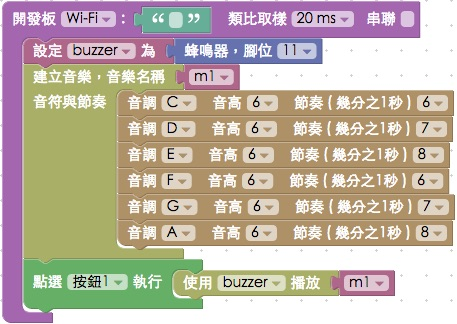
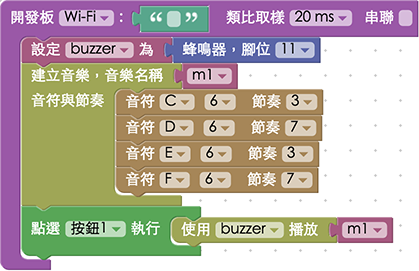
edit tutorials of buzzer

diff --git a/tutorials/tutorial-13-buzzer.html b/tutorials/tutorial-13-buzzer.html
@@ -1,60 +1,63 @@
-<!DOCTYPE html> <html lang="en"> <head> <meta charset="UTF-8"> <meta http-equiv="pragma" content="no-cache"> <meta name="viewport" content="width=device-width, initial-scale=1, maximum-scale=1, user-scalable=no"> <meta name="author" content="webduino.io"> <meta name="copyright" content="webduino.io"> <meta itemprop="name" content="webduino.io"> <link rel="icon" href="../img/layout/favicon.ico" type="image/x-icon"> <title>教學範例 13：蜂鳴器播放自製音樂 :::: Webduino = Web × Arduino</title> <meta name="description" content="蜂鳴器是一個可以產生聲音信號的裝置，使用直流電供電，接通訊號源之後，音訊信號電流通過電磁線圈，使電磁線圈產生磁場，造成 振動膜片週期性地振動發聲，而 Webduino 更可以藉由 HTML5 Attribute 來填入音符代碼，每個代碼都會對應到一個數值，這個數值相對應蜂鳴器聲音的頻率，因此藉由純粹的 HTML5 或 javascript 就可以編輯音樂，透過蜂鳴器發聲。"> <meta itemprop="description" content="蜂鳴器是一個可以產生聲音信號的裝置，使用直流電供電，接通訊號源之後，音訊信號電流通過電磁線圈，使電磁線圈產生磁場，造成 振動膜片週期性地振動發聲，而 Webduino 更可以藉由 HTML5 Attribute 來填入音符代碼，每個代碼都會對應到一個數值，這個數值相對應蜂鳴器聲音的頻率，因此藉由純粹的 HTML5 或 javascript 就可以編輯音樂，透過蜂鳴器發聲。"> <meta property="og:description" content="蜂鳴器是一個可以產生聲音信號的裝置，使用直流電供電，接通訊號源之後，音訊信號電流通過電磁線圈，使電磁線圈產生磁場，造成 振動膜片週期性地振動發聲，而 Webduino 更可以藉由 HTML5 Attribute 來填入音符代碼，每個代碼都會對應到一個數值，這個數值相對應蜂鳴器聲音的頻率，因此藉由純粹的 HTML5 或 javascript 就可以編輯音樂，透過蜂鳴器發聲。"> <meta property="og:title" content="教學範例 13：蜂鳴器播放自製音樂"> <meta property="og:url" content="https://webduino.io/tutorials/tutorial-13-buzzer.html"> <meta property="og:image" content="https://webduino.io/img/tutorials/tutorial-13-01s.jpg"> <meta itemprop="image" content="https://webduino.io/img/tutorials/tutorial-13-01s.jpg"> <script src="../js/lib/jquery.min.js"></script> <script src="../js/lib/jquery.lazyload.min.js"></script> <script src="../js/lib/run_prettify.js"></script> <script src="../js/layout.js"></script> <script src="../js/tutorials.js"></script> <script src="../js/lib/disqus.js"></script> <link rel="stylesheet" href="../style/css/lib/tomorrow.css"> <link rel="stylesheet" href="../style/css/layout.css"> <link rel="stylesheet" href="../style/css/sub-header.css"> <link rel="stylesheet" href="../style/css/tutorials-content.css"> <link rel="stylesheet" href="https://maxcdn.bootstrapcdn.com/font-awesome/4.5.0/css/font-awesome.min.css"> </head> <body> <header class="path-0"> <a class="logo" href="index.html" data-name="layout-header-logo"></a> <div class="mobile-menu"></div> <div class="menu"> <a href="index.html" class="index" data-name="layout-mobile-menu">首頁</a> <a href="tutorials.html" class="tutorials" data-name="layout-mobile-menu">教學範例</a> <a href="buy.html" class="buy" data-name="layout-mobile-menu">產品總覽</a> <a href="activity.html" class="activity" data-name="layout-mobile-menu">課程活動</a> <a data-name="layout-mobile-menu" href="https://www.facebook.com/webduino/info?tab=overview" target="_blank">連絡我們</a> </div> </header> <header class="path-1"> <a class="logo" href="../index.html"></a> <div class="mobile-menu"></div> <div class="menu"> <a href="../index.html" class="index" data-name="layout-menu">首頁</a> <a href="../tutorials.html" class="tutorials" data-name="layout-menu">教學範例</a> <a href="../buy.html" class="buy" data-name="layout-menu">產品總覽</a> <a href="../activity.html" class="activity" data-name="layout-menu">課程活動</a> <a data-name="layout-mobile-menu" href="https://www.facebook.com/webduino/info?tab=overview" target="_blank">連絡我們</a> </div> </header> <div class="tutorials-content"> <div class="banner"> </div> <h1>教學範例 13：蜂鳴器播放自製音樂</h1> <p>蜂鳴器是一個可以產生聲音信號的裝置，使用直流電供電，接通訊號源之後，音訊信號電流通過電磁線圈，使電磁線圈產生磁場，造成 振動膜片週期性地振動發聲，而 Webduino 更可以藉由 HTML5 Attribute 來填入音符代碼，每個代碼都會對應到一個數值，這個數值相對應蜂鳴器聲音的頻率，因此藉由純粹的 HTML5 或 javascript 就可以編輯音樂，透過蜂鳴器發聲。</p> <h2>範例影片展示</h2> <p>影片對應範例：<a href="https://blockly.webduino.io/?page=tutorials/buzzer-1">https://blockly.webduino.io/?page=tutorials/buzzer-1</a> </p> <p><iframe class="youtube" src="https://www.youtube.com/embed/StNG2NHS240" frameborder="0" allowfullscreen=""></iframe></p> <h2>接線與實作</h2> <p>蜂鳴器在電路板的附近，有標示「+」和「-」的符號，「-」接在開發板的 GND，「+」接在 11 的腳位 ( 其實接反也沒關係 )，可以用杜邦線接出來，如果是馬克 1 號，也可以直接安插在上面。</p> <p><img src="../img/tutorials/tutorial-13-02.jpg"></p> <p>實際接線照片：</p> <p><img src="../img/tutorials/tutorial-13-03.jpg"></p> <p><img src="../img/tutorials/tutorial-13-04.jpg"></p> <h2>Webduino Blockly 操作解析</h2> <p>打開 Webduino Blockly 編輯工具 ( <a href="https://blockly.webduino.io">https://blockly.webduino.io</a> )，因為這個範例會用網頁「網頁按鈕」來點選不同按鈕播放不同音樂，所以要先點選右上方「網頁互動測試」的按鈕，打開內嵌測試的網頁，用下拉選單選擇「按鈕行為」，這邊的按鈕跟實體的按鈕開關是不一樣的，這邊的按鈕指的是網頁上面的按鈕。</p> <p><img src="../img/tutorials/tutorial-13-05.jpg"></p> <p>把開發板放到編輯畫面裡，填入對應的 Webduino 開發板名稱，開發板內放入蜂鳴器積木，名稱設定為 buzzer，腳位設定為 11。</p> <p><img src="../img/tutorials/tutorial-13-06.jpg"></p> <p>再來建立我們的第一首音樂，放入「建立音樂」的積木，名稱命名為 m1，裏頭擺入音符與節奏，音符與節奏積木的「音調」有「無聲、C、CS、D、DS、E、F、FS、G、GS、A、AS、B」，可以想像成鋼琴的黑鍵與白鍵，有 S 的就是黑鍵，「音高」就是有幾個八度音，這裏可以設定七個八度音，數字越大聲越高，「節奏」就是幾分之一秒，最少可以到 1/10 秒。</p> <p><img src="../img/tutorials/tutorial-13-07.jpg"></p> <p>建立了音樂，接著就設定按下按鈕 1 的事件，當按下按鈕 1，就用 buzzer 播放 m1。</p> <p><img src="../img/tutorials/tutorial-13-08.jpg"></p> <p>如果要用另外一種製作音樂的方式，可以選擇「快速建立音樂」的積木，這裏就只是把剛剛的音符與節奏，合併成兩個欄位，如果節奏沒有按照音符數量填寫 ( 如果節奏比較少 )，則多出來的音符會預設用 1/8 秒的節奏播放，用這種方式做的第二首音樂 m2，點選按鈕 2 來播放。</p> <p><img src="../img/tutorials/tutorial-13-09.jpg"></p> <p>接著按下按鈕 3 的事件，就直接播放一首系統預設的超級馬力音樂即可。</p> <p><img src="../img/tutorials/tutorial-13-10.jpg"></p> <p>按鈕 4 綁定停止播放的行為。</p> <p><img src="../img/tutorials/tutorial-13-11.jpg"></p> <p>到這邊大致上已經完成了一個點選按鈕控制播放的蜂鳴器程式積木，但最後一步我們要在按鈕 1 到 3 多加一段停止播放的行為，避免按下按鈕的時候，如果前一首還沒播完，就會重疊在一起播放。</p> <p><img src="../img/tutorials/tutorial-13-12.jpg"></p> <p>完成後，確認開發板上線 ( 點選「<a href="https://webduino.io/device.html">檢查連線狀態</a>」查詢 )，點選紅色的執行按鈕，分別按下不同按鈕，就會聽到蜂鳴器播放出不同的音樂。( 解答：<a href="https://blockly.webduino.io/#-K7AbLdWpQrrSWJ8kIPs">https://blockly.webduino.io/#-K7AbLdWpQrrSWJ8kIPs</a> )</p> <h2>程式碼解析 ( <a href="http://bin.webduino.io/zolor/edit?html,css,js,output">完整程式碼</a>、<a href="https://webduino.io/device.html">檢查連線狀態</a> )</h2> <p>HTML 的 header 引入 <code>webduino-all.min.js</code>，目的在讓瀏覽器可以支援 WebComponents 以及 Webduino 所有的元件，如果是用 Blockly 編輯工具產生的程式碼，則要額外引入 <code>webduino-blockly.js</code>。</p> <pre><code>&lt;script src=&quot;https://webduino.io/components/webduino-js/dist/webduino-all.min.js&quot;&gt;&lt;/script&gt;
+<!DOCTYPE html> <html lang="en"> <head> <meta charset="UTF-8"> <meta http-equiv="pragma" content="no-cache"> <meta name="viewport" content="width=device-width, initial-scale=1, maximum-scale=1, user-scalable=no"> <meta name="author" content="webduino.io"> <meta name="copyright" content="webduino.io"> <meta itemprop="name" content="webduino.io"> <link rel="icon" href="../img/layout/favicon.ico" type="image/x-icon"> <title>教學範例 13：蜂鳴器播放自製音樂 :::: Webduino = Web × Arduino</title> <meta name="description" content="蜂鳴器是一個可以產生聲音信號的裝置，使用直流電供電，接通訊號源之後，音訊信號電流通過電磁線圈，使電磁線圈產生磁場，造成 振動膜片週期性地振動發聲，而 Webduino 更可以藉由 HTML5 Attribute 來填入音符代碼，每個代碼都會對應到一個數值，這個數值相對應蜂鳴器聲音的頻率，因此藉由純粹的 HTML5 或 javascript 就可以編輯音樂，透過蜂鳴器發聲。"> <meta itemprop="description" content="蜂鳴器是一個可以產生聲音信號的裝置，使用直流電供電，接通訊號源之後，音訊信號電流通過電磁線圈，使電磁線圈產生磁場，造成 振動膜片週期性地振動發聲，而 Webduino 更可以藉由 HTML5 Attribute 來填入音符代碼，每個代碼都會對應到一個數值，這個數值相對應蜂鳴器聲音的頻率，因此藉由純粹的 HTML5 或 javascript 就可以編輯音樂，透過蜂鳴器發聲。"> <meta property="og:description" content="蜂鳴器是一個可以產生聲音信號的裝置，使用直流電供電，接通訊號源之後，音訊信號電流通過電磁線圈，使電磁線圈產生磁場，造成 振動膜片週期性地振動發聲，而 Webduino 更可以藉由 HTML5 Attribute 來填入音符代碼，每個代碼都會對應到一個數值，這個數值相對應蜂鳴器聲音的頻率，因此藉由純粹的 HTML5 或 javascript 就可以編輯音樂，透過蜂鳴器發聲。"> <meta property="og:title" content="教學範例 13：蜂鳴器播放自製音樂"> <meta property="og:url" content="https://webduino.io/tutorials/tutorial-13-buzzer.html"> <meta property="og:image" content="https://webduino.io/img/tutorials/tutorial-13-01s.jpg"> <meta itemprop="image" content="https://webduino.io/img/tutorials/tutorial-13-01s.jpg"> <script src="../js/lib/jquery.min.js"></script> <script src="../js/lib/jquery.lazyload.min.js"></script> <script src="../js/lib/run_prettify.js"></script> <script src="../js/layout.js"></script> <script src="../js/tutorials.js"></script> <script src="../js/lib/disqus.js"></script> <link rel="stylesheet" href="../style/css/lib/tomorrow.css"> <link rel="stylesheet" href="../style/css/layout.css"> <link rel="stylesheet" href="../style/css/sub-header.css"> <link rel="stylesheet" href="../style/css/tutorials-content.css"> <link rel="stylesheet" href="https://maxcdn.bootstrapcdn.com/font-awesome/4.5.0/css/font-awesome.min.css"> </head> <body> <header class="path-0"> <a class="logo" href="index.html" data-name="layout-header-logo"></a> <div class="mobile-menu"></div> <div class="menu"> <a href="index.html" class="index" data-name="layout-mobile-menu">首頁</a> <a href="tutorials.html" class="tutorials" data-name="layout-mobile-menu">教學範例</a> <a href="buy.html" class="buy" data-name="layout-mobile-menu">產品總覽</a> <a href="activity.html" class="activity" data-name="layout-mobile-menu">課程活動</a> <a data-name="layout-mobile-menu" href="https://www.facebook.com/webduino/info?tab=overview" target="_blank">連絡我們</a> </div> </header> <header class="path-1"> <a class="logo" href="../index.html"></a> <div class="mobile-menu"></div> <div class="menu"> <a href="../index.html" class="index" data-name="layout-menu">首頁</a> <a href="../tutorials.html" class="tutorials" data-name="layout-menu">教學範例</a> <a href="../buy.html" class="buy" data-name="layout-menu">產品總覽</a> <a href="../activity.html" class="activity" data-name="layout-menu">課程活動</a> <a data-name="layout-mobile-menu" href="https://www.facebook.com/webduino/info?tab=overview" target="_blank">連絡我們</a> </div> </header> <div class="tutorials-content"> <div class="banner"> </div> <h1>教學範例 13：蜂鳴器播放自製音樂</h1> <p>蜂鳴器是一個可以產生聲音信號的裝置，使用直流電供電，接通訊號源之後，音訊信號電流通過電磁線圈，使電磁線圈產生磁場，造成 振動膜片週期性地振動發聲，而 Webduino 更可以藉由 HTML5 Attribute 來填入音符代碼，每個代碼都會對應到一個數值，這個數值相對應蜂鳴器聲音的頻率，因此藉由純粹的 HTML5 或 javascript 就可以編輯音樂，透過蜂鳴器發聲。</p> <h2>範例影片展示</h2> <p>影片對應範例：<a href="https://blockly.webduino.io/?page=tutorials/buzzer-1">https://blockly.webduino.io/?page=tutorials/buzzer-1</a> </p> <p><iframe class="youtube" src="https://www.youtube.com/embed/StNG2NHS240" frameborder="0" allowfullscreen=""></iframe></p> <h2>接線與實作</h2> <p>蜂鳴器在電路板的附近，有標示「+」和「-」的符號，「-」接在開發板的 GND，「+」接在 11 的腳位 ( 其實接反也沒關係 )，可以用杜邦線接出來，如果是馬克 1 號，也可以直接安插在上面。</p> <p><img src="../img/tutorials/tutorial-13-02.jpg"></p> <p>實際接線照片：</p> <p><img src="../img/tutorials/tutorial-13-03.jpg"></p> <p><img src="../img/tutorials/tutorial-13-04.jpg"></p> <h2>Webduino Blockly 操作解析</h2> <p>打開 Webduino Blockly 編輯工具 ( <a href="https://blockly.webduino.io">https://blockly.webduino.io</a> )，因為這個範例會用網頁「網頁按鈕」來點選不同按鈕播放不同音樂，所以要先點選右上方「網頁互動測試」的按鈕，打開內嵌測試的網頁，用下拉選單選擇「按鈕行為」，這邊的按鈕跟實體的按鈕開關是不一樣的，這邊的按鈕指的是網頁上面的按鈕。</p> <p><img src="../img/tutorials/tutorial-13-05.jpg"></p> <p>把開發板放到編輯畫面裡，填入對應的 Webduino 開發板名稱，開發板內放入蜂鳴器積木，名稱設定為 buzzer，腳位設定為 11。</p> <p><img src="../img/tutorials/tutorial-13-06.jpg"></p> <p>再來建立我們的第一首音樂，放入「建立音樂」的積木，名稱命名為 m1，裏頭擺入音符與節奏，「音符」第一個下拉選單有「無聲、C、CS、D、DS、E、F、FS、G、GS、A、AS、B」，可以想像成鋼琴的黑鍵與白鍵，有 S 的就是黑鍵，第二個下拉選單就是有幾個八度音，這裏可以設定七個八度音，數字越大聲越高，「節奏」就是幾分之一秒，最少可以到 1/10 秒。</p> <p><img src="../img/tutorials/tutorial-13-07.jpg"></p> <p>建立了音樂，接著就設定按下按鈕 1 的事件，當按下按鈕 1，就用 buzzer 播放 m1。</p> <p><img src="../img/tutorials/tutorial-13-08.jpg"></p> <p>除了一個個放入音符和節奏外，也可以直接用輸入的方式，這裏就只是把剛剛的音符與節奏，合併成兩個欄位，如果節奏沒有按照音符數量填寫 ( 如果節奏比較少 )，則多出來的音符就會用最後一個節奏的時間去播放，用這種方式做的第二首音樂 m2，點選按鈕 2 來播放。</p> <p><img src="../img/tutorials/tutorial-13-09.jpg"></p> <p>接著按下按鈕 3 的事件，這裏就用同樣做音樂的方法作首 m3 的音樂，內容就直接選一首資料庫的音樂放入。</p> <p><img src="../img/tutorials/tutorial-13-10.jpg"></p> <p>按鈕 4 綁定停止播放的行為。</p> <p><img src="../img/tutorials/tutorial-13-11.jpg"></p> <p>到這邊大致上已經完成了一個點選按鈕控制播放的蜂鳴器程式積木，但最後一步我們要在按鈕 1 到 3 多加一段停止播放的行為，避免按下按鈕的時候，如果前一首還沒播完，就會重疊在一起播放。</p> <p><img src="../img/tutorials/tutorial-13-12.jpg"></p> <p>完成後，確認開發板上線 ( 點選「<a href="https://webduino.io/device.html">檢查連線狀態</a>」查詢 )，點選紅色的執行按鈕，分別按下不同按鈕，就會聽到蜂鳴器播放出不同的音樂。( 解答：<a href="https://blockly.webduino.io/#-KDEaW-S-kRRaEkkyRGH">https://blockly.webduino.io/#-KDEaW-S-kRRaEkkyRGH</a> )</p> <h2>程式碼解析 ( <a href="https://bin.webduino.io/lihov/edit?html,css,js,output">完整程式碼</a>、<a href="https://webduino.io/device.html">檢查連線狀態</a> )</h2> <p>HTML 的 header 引入 <code>webduino-all.min.js</code>，目的在讓瀏覽器可以支援 WebComponents 以及 Webduino 所有的元件，如果是用 Blockly 編輯工具產生的程式碼，則要額外引入 <code>webduino-blockly.js</code>。</p> <pre><code>&lt;script src=&quot;https://webduino.io/components/webduino-js/dist/webduino-all.min.js&quot;&gt;&lt;/script&gt;
 &lt;script src=&quot;https://webduinoio.github.io/webduino-blockly/webduino-blockly.js&quot;&gt;&lt;/script&gt;
 </code></pre><p>HTML 裡有五個按鈕，分別有各自的 id，屆時就可以由 id 來判斷按下哪顆按鈕。</p> <pre><code>&lt;button id=&quot;demo-area-05-btn1&quot; class=&quot;db5&quot;&gt;按鈕 1&lt;/button&gt;
 &lt;button id=&quot;demo-area-05-btn2&quot; class=&quot;db5&quot;&gt;按鈕 2&lt;/button&gt;
 &lt;button id=&quot;demo-area-05-btn3&quot; class=&quot;db5&quot;&gt;按鈕 3&lt;/button&gt;
 &lt;button id=&quot;demo-area-05-btn4&quot; class=&quot;db5&quot;&gt;按鈕 4&lt;/button&gt;
 &lt;button id=&quot;demo-area-05-btn5&quot; class=&quot;db5&quot;&gt;按鈕 5&lt;/button&gt;
-</code></pre><p>JavaScript 看起來很多，但實際上很單純，先看到 m1 這首歌，其實就是建立兩個陣列 ( notes 和 tempos )，然後把音符和節奏分別拋到這兩個陣列裡，如果是 m2 的話就更單純，直接就可以看到兩個陣列的長相，至於直接播放系統預設的超級馬力，就可以看到一大串的超級馬力音樂數值在陣列裡，然後只要設定按鈕的 click 事件來播放就可以了。</p> <pre><code>var buzzer;
+</code></pre><p>JavaScript 看起來很多，但實際上很單純，先看到 m1 這首歌，其實就是建立兩個陣列 ( notes 和 tempos )，然後把音符和節奏分別拋到這兩個陣列裡，一開始的程式就是音樂播放的主程式，可以清楚地看到裡面放入了兩個物件，分別是 notes 和 tempos，而這兩個物件內容都是陣列。</p> <pre><code>var buzzer;
 var m1;
 var m2;
+var m3;
 
-boardReady(&#39;&#39;, function (board) {
+function buzzer_music(m) {
+  var musicNotes = {};
+  musicNotes.notes = [];
+  musicNotes.tempos = [];
+  if(m.length&gt;1){
+    for(var i=0; i&lt;m.length; i++){
+      if(Array.isArray(m[i].notes)){
+        var cn = musicNotes.notes.concat(m[i].notes);
+        musicNotes.notes = cn;
+      }else{
+        musicNotes.notes.push(m[i].notes);
+      }
+      if(Array.isArray(m[i].tempos)){
+        var ct = musicNotes.tempos.concat(m[i].tempos);
+        musicNotes.tempos = ct;
+      }else{
+        musicNotes.tempos.push(m[i].tempos);
+      }
+    }
+  }else{
+    musicNotes.notes = [m[0].notes];
+    musicNotes.tempos = [m[0].tempos];
+  }
+  return musicNotes;
+}
+</code></pre><p>接著看到開發板的程式，可以看到我們建立的音樂，就是把一串陣列丟給這首音樂的 notes 和 tempos 物件，如此一來蜂鳴器就會按照這些音符節奏播放。</p> <pre><code>boardReady(&#39;&#39;, function (board) {
   board.samplingInterval = 20;
   buzzer = getBuzzer(board, 11);
-  var m1={};
-  (function(){
-    var musicNotes = {};
-    musicNotes.notes = [];
-    musicNotes.tempos = [];
-    musicNotes.notes.push(&quot;C6&quot;);
-    musicNotes.tempos.push(&quot;6&quot;);
-    musicNotes.notes.push(&quot;D6&quot;);
-    musicNotes.tempos.push(&quot;7&quot;);
-    musicNotes.notes.push(&quot;E6&quot;);
-    musicNotes.tempos.push(&quot;8&quot;);
-    musicNotes.notes.push(&quot;F6&quot;);
-    musicNotes.tempos.push(&quot;6&quot;);
-    musicNotes.notes.push(&quot;G6&quot;);
-    musicNotes.tempos.push(&quot;7&quot;);
-    musicNotes.notes.push(&quot;A6&quot;);
-    musicNotes.tempos.push(&quot;8&quot;);
-
-    m1.notes = musicNotes.notes;
-    m1.tempos = musicNotes.tempos;
-  })();
+  m1 = buzzer_music([  {notes:&quot;C6&quot;,tempos:&quot;3&quot;},{notes:&quot;D6&quot;,tempos:&quot;7&quot;},{notes:&quot;E6&quot;,tempos:&quot;3&quot;},{notes:&quot;F6&quot;,tempos:&quot;7&quot;}]);
   document.getElementById(&quot;demo-area-05-btn1&quot;).addEventListener(&quot;click&quot;,function(){
     buzzer.stop();
     buzzer.play(m1.notes, m1.tempos);
   });
-  var m2={};
-  (function(){
-    m2.notes = [&#39;C6&#39;,&#39;D6&#39;,&#39;E6&#39;,&#39;F6&#39;,&#39;G6&#39;,&#39;A6&#39;,&#39;B6&#39;];
-    m2.tempos = [&#39;8&#39;];
-  })();
+  m2 = buzzer_music([  {notes : [&quot;C6&quot;,&quot;D6&quot;,&quot;E6&quot;,&quot;F6&quot;,&quot;G6&quot;,&quot;A6&quot;,&quot;B6&quot;] , tempos : [&quot;8&quot;,&quot;8&quot;,&quot;8&quot;,&quot;8&quot;,&quot;8&quot;,&quot;8&quot;,&quot;8&quot;] }]);
   document.getElementById(&quot;demo-area-05-btn2&quot;).addEventListener(&quot;click&quot;,function(){
     buzzer.stop();
     buzzer.play(m2.notes, m2.tempos);
   });
+  m3 = buzzer_music([  {notes:[&quot;E7&quot;,&quot;E7&quot;,&quot;0&quot;,&quot;E7&quot;,&quot;0&quot;,&quot;C7&quot;,&quot;E7&quot;,&quot;0&quot;,&quot;G7&quot;,&quot;0&quot;,&quot;0&quot;,&quot;0&quot;,&quot;G6&quot;,&quot;0&quot;,&quot;0&quot;,&quot;0&quot;,&quot;C7&quot;,&quot;0&quot;,&quot;0&quot;,&quot;G6&quot;,&quot;0&quot;,&quot;0&quot;,&quot;E6&quot;,&quot;0&quot;,&quot;0&quot;,&quot;A6&quot;,&quot;0&quot;,&quot;B6&quot;,&quot;0&quot;,&quot;AS6&quot;,&quot;A6&quot;,&quot;0&quot;,&quot;G6&quot;,&quot;E7&quot;,&quot;0&quot;,&quot;G7&quot;,&quot;A7&quot;,&quot;0&quot;,&quot;F7&quot;,&quot;G7&quot;,&quot;0&quot;,&quot;E7&quot;,&quot;0&quot;,&quot;C7&quot;,&quot;D7&quot;,&quot;B6&quot;,&quot;0&quot;,&quot;0&quot;,&quot;C7&quot;,&quot;0&quot;,&quot;0&quot;,&quot;G6&quot;,&quot;0&quot;,&quot;0&quot;,&quot;E6&quot;,&quot;0&quot;,&quot;0&quot;,&quot;A6&quot;,&quot;0&quot;,&quot;B6&quot;,&quot;0&quot;,&quot;AS6&quot;,&quot;A6&quot;,&quot;0&quot;,&quot;G6&quot;,&quot;E7&quot;,&quot;0&quot;,&quot;G7&quot;,&quot;A7&quot;,&quot;0&quot;,&quot;F7&quot;,&quot;G7&quot;,&quot;0&quot;,&quot;E7&quot;,&quot;0&quot;,&quot;C7&quot;,&quot;D7&quot;,&quot;B6&quot;,&quot;0&quot;,&quot;0&quot;] , tempos:[&quot;8&quot;, &quot;8&quot;, &quot;8&quot;, &quot;8&quot;, &quot;8&quot;, &quot;8&quot;, &quot;8&quot;, &quot;8&quot;, &quot;8&quot;, &quot;8&quot;, &quot;8&quot;, &quot;8&quot;, &quot;8&quot;, &quot;8&quot;, &quot;8&quot;, &quot;8&quot;, &quot;8&quot;, &quot;8&quot;, &quot;8&quot;, &quot;8&quot;, &quot;8&quot;, &quot;8&quot;, &quot;8&quot;, &quot;8&quot;, &quot;8&quot;, &quot;8&quot;, &quot;8&quot;, &quot;8&quot;, &quot;8&quot;, &quot;8&quot;, &quot;8&quot;, &quot;8&quot;, &quot;8&quot;, &quot;8&quot;, &quot;8&quot;, &quot;8&quot;, &quot;8&quot;, &quot;8&quot;, &quot;8&quot;, &quot;8&quot;, &quot;8&quot;, &quot;8&quot;, &quot;8&quot;, &quot;8&quot;, &quot;8&quot;, &quot;8&quot;, &quot;8&quot;, &quot;8&quot;, &quot;8&quot;, &quot;8&quot;, &quot;8&quot;, &quot;8&quot;, &quot;8&quot;, &quot;8&quot;, &quot;8&quot;, &quot;8&quot;, &quot;8&quot;, &quot;8&quot;, &quot;8&quot;, &quot;8&quot;, &quot;8&quot;, &quot;8&quot;, &quot;8&quot;, &quot;8&quot;, &quot;8&quot;, &quot;8&quot;, &quot;8&quot;, &quot;8&quot;, &quot;8&quot;, &quot;8&quot;, &quot;8&quot;, &quot;8&quot;, &quot;8&quot;, &quot;8&quot;, &quot;8&quot;, &quot;8&quot;, &quot;8&quot;, &quot;8&quot;, &quot;8&quot;, &quot;8&quot;]}]);
   document.getElementById(&quot;demo-area-05-btn3&quot;).addEventListener(&quot;click&quot;,function(){
     buzzer.stop();
-    buzzer.play([&quot;E7&quot;,&quot;E7&quot;,&quot;0&quot;,&quot;E7&quot;,&quot;0&quot;,&quot;C7&quot;,&quot;E7&quot;,&quot;0&quot;,&quot;G7&quot;,&quot;0&quot;,&quot;0&quot;,&quot;0&quot;,&quot;G6&quot;,&quot;0&quot;,&quot;0&quot;,&quot;0&quot;,&quot;C7&quot;,&quot;0&quot;,&quot;0&quot;,&quot;G6&quot;,&quot;0&quot;,&quot;0&quot;,&quot;E6&quot;,&quot;0&quot;,&quot;0&quot;,&quot;A6&quot;,&quot;0&quot;,&quot;B6&quot;,&quot;0&quot;,&quot;AS6&quot;,&quot;A6&quot;,&quot;0&quot;,&quot;G6&quot;,&quot;E7&quot;,&quot;0&quot;,&quot;G7&quot;,&quot;A7&quot;,&quot;0&quot;,&quot;F7&quot;,&quot;G7&quot;,&quot;0&quot;,&quot;E7&quot;,&quot;0&quot;,&quot;C7&quot;,&quot;D7&quot;,&quot;B6&quot;,&quot;0&quot;,&quot;0&quot;,&quot;C7&quot;,&quot;0&quot;,&quot;0&quot;,&quot;G6&quot;,&quot;0&quot;,&quot;0&quot;,&quot;E6&quot;,&quot;0&quot;,&quot;0&quot;,&quot;A6&quot;,&quot;0&quot;,&quot;B6&quot;,&quot;0&quot;,&quot;AS6&quot;,&quot;A6&quot;,&quot;0&quot;,&quot;G6&quot;,&quot;E7&quot;,&quot;0&quot;,&quot;G7&quot;,&quot;A7&quot;,&quot;0&quot;,&quot;F7&quot;,&quot;G7&quot;,&quot;0&quot;,&quot;E7&quot;,&quot;0&quot;,&quot;C7&quot;,&quot;D7&quot;,&quot;B6&quot;,&quot;0&quot;,&quot;0&quot;],[&quot;8&quot;].notes, [&quot;E7&quot;,&quot;E7&quot;,&quot;0&quot;,&quot;E7&quot;,&quot;0&quot;,&quot;C7&quot;,&quot;E7&quot;,&quot;0&quot;,&quot;G7&quot;,&quot;0&quot;,&quot;0&quot;,&quot;0&quot;,&quot;G6&quot;,&quot;0&quot;,&quot;0&quot;,&quot;0&quot;,&quot;C7&quot;,&quot;0&quot;,&quot;0&quot;,&quot;G6&quot;,&quot;0&quot;,&quot;0&quot;,&quot;E6&quot;,&quot;0&quot;,&quot;0&quot;,&quot;A6&quot;,&quot;0&quot;,&quot;B6&quot;,&quot;0&quot;,&quot;AS6&quot;,&quot;A6&quot;,&quot;0&quot;,&quot;G6&quot;,&quot;E7&quot;,&quot;0&quot;,&quot;G7&quot;,&quot;A7&quot;,&quot;0&quot;,&quot;F7&quot;,&quot;G7&quot;,&quot;0&quot;,&quot;E7&quot;,&quot;0&quot;,&quot;C7&quot;,&quot;D7&quot;,&quot;B6&quot;,&quot;0&quot;,&quot;0&quot;,&quot;C7&quot;,&quot;0&quot;,&quot;0&quot;,&quot;G6&quot;,&quot;0&quot;,&quot;0&quot;,&quot;E6&quot;,&quot;0&quot;,&quot;0&quot;,&quot;A6&quot;,&quot;0&quot;,&quot;B6&quot;,&quot;0&quot;,&quot;AS6&quot;,&quot;A6&quot;,&quot;0&quot;,&quot;G6&quot;,&quot;E7&quot;,&quot;0&quot;,&quot;G7&quot;,&quot;A7&quot;,&quot;0&quot;,&quot;F7&quot;,&quot;G7&quot;,&quot;0&quot;,&quot;E7&quot;,&quot;0&quot;,&quot;C7&quot;,&quot;D7&quot;,&quot;B6&quot;,&quot;0&quot;,&quot;0&quot;],[&quot;8&quot;].tempos);
+    buzzer.play(m3.notes, m3.tempos);
   });
   document.getElementById(&quot;demo-area-05-btn4&quot;).addEventListener(&quot;click&quot;,function(){
     buzzer.stop();
   });
 });
-</code></pre><p>以上就是利用蜂鳴器和網頁的按鈕，來製作與播放音樂。<br>完整程式碼：<a href="http://bin.webduino.io/zolor/edit?html,css,js,output">http://bin.webduino.io/zolor/edit?html,css,js,output</a><br>解答：<a href="https://blockly.webduino.io/#-K7AbLdWpQrrSWJ8kIPs">https://blockly.webduino.io/#-K7AbLdWpQrrSWJ8kIPs</a></p> <h2>蜂鳴器的延伸教學：</h2> <p><a href="https://blockly.webduino.io/?lang=zh-hant&amp;page=tutorials/buzzer-2#-Jw0aEoyT2sxCaftUdTD">Webduino Blockly 課程 9-2：蜂鳴器播放音樂</a><br><a href="https://blockly.webduino.io/?lang=zh-hant&amp;page=tutorials/buzzer-3#-Jw13yiSFLrZJEVyJ2Ej">Webduino Blockly 課程 9-3：切換音樂，用蜂鳴器播放</a><br><a href="https://blockly.webduino.io/?lang=zh-hant&amp;page=tutorials/buzzer-4#-Jw17HU-K0zaz6OVpCd2">Webduino Blockly 課程 9-4：蜂鳴器的播放、暫停、停止 ( 按鈕開關控制 ) </a></p> <a class="arrow arrow-r pre-next-button" data-name="pre-next-arrow"></a> <a class="arrow arrow-l pre-next-button" data-name="pre-next-arrow"></a> <div class="pre-next"> <div> <div class="pre"></div> <div class="next"></div> </div> </div> <div class="note-chicken"></div> <div class="others"> <i class="fa fa-times note-close-btn"></i> <h5>如果您還想了解更多，可以參考：</h5> <div class="others-link otehrs-read"> 1. 完整教學範例：<a href="https://webduino.io/tutorials.html" data-name="noteLink">https://webduino.io/tutorials.html</a> <br> 2. Blockly 教學：<a href="https://goo.gl/Y8sRkl" data-name="noteLink">https://goo.gl/Y8sRkl</a> <br> 3. 產品總覽：<a href="https://webduino.io/buy.html" target="_blank" data-name="noteLink">https://webduino.io/buy.html <i class="fa fa-share-square-o"></i></a> <br> 4. 露天賣場：<a href="http://goo.gl/0Dj9ip" target="_blank" data-name="noteLink">http://goo.gl/0Dj9ip <i class="fa fa-share-square-o"></i></a> </div> </div> </div> <div class="disqus"> <div id="disqus_thread"></div> </div> <footer> <div class="logo"> <a href="index.html" data-name="layout-footer-logo"><i></i></a> <a href="../index.html" data-name="layout-footer-logo"><i></i></a> </div> <h4>Copyright 2015 | All Rights Reserved. Power by Webduino.io</h4> <h4>80661 高雄市前鎮區復興四路 20 號 1 樓 / 886-7-3388511</h4> </footer> <script>
+</code></pre><p>以上就是利用蜂鳴器和網頁的按鈕，來製作與播放音樂。<br>完整程式碼：<a href="https://bin.webduino.io/lihov/edit?html,css,js,output">https://bin.webduino.io/lihov/edit?html,css,js,output</a><br>解答：<a href="https://blockly.webduino.io/#-KDEaW-S-kRRaEkkyRGH">https://blockly.webduino.io/#-KDEaW-S-kRRaEkkyRGH</a></p> <h2>蜂鳴器的延伸教學：</h2> <p><a href="http://blockly.webduino.io/?lang=zh-hant&amp;page=tutorials/buzzer-2#-KDCNtS1o_l57m9Aq46h">Webduino Blockly 課程 9-2：蜂鳴器播放音樂</a><br><a href="http://blockly.webduino.io/?lang=zh-hant&amp;page=tutorials/buzzer-3#-KDCOHhM5eAHX6GbAkw8">Webduino Blockly 課程 9-3：切換音樂，用蜂鳴器播放</a><br><a href="http://blockly.webduino.io/?lang=zh-hant&amp;page=tutorials/buzzer-4#-KDCOxfqbxJmc3MaY_rg">Webduino Blockly 課程 9-4：蜂鳴器的播放、暫停、停止 ( 按鈕開關控制 ) </a></p> <a class="arrow arrow-r pre-next-button" data-name="pre-next-arrow"></a> <a class="arrow arrow-l pre-next-button" data-name="pre-next-arrow"></a> <div class="pre-next"> <div> <div class="pre"></div> <div class="next"></div> </div> </div> <div class="note-chicken"></div> <div class="others"> <i class="fa fa-times note-close-btn"></i> <h5>如果您還想了解更多，可以參考：</h5> <div class="others-link otehrs-read"> 1. 完整教學範例：<a href="https://webduino.io/tutorials.html" data-name="noteLink">https://webduino.io/tutorials.html</a> <br> 2. Blockly 教學：<a href="https://goo.gl/Y8sRkl" data-name="noteLink">https://goo.gl/Y8sRkl</a> <br> 3. 產品總覽：<a href="https://webduino.io/buy.html" target="_blank" data-name="noteLink">https://webduino.io/buy.html <i class="fa fa-share-square-o"></i></a> <br> 4. 露天賣場：<a href="http://goo.gl/0Dj9ip" target="_blank" data-name="noteLink">http://goo.gl/0Dj9ip <i class="fa fa-share-square-o"></i></a> </div> </div> </div> <div class="disqus"> <div id="disqus_thread"></div> </div> <footer> <div class="logo"> <a href="index.html" data-name="layout-footer-logo"><i></i></a> <a href="../index.html" data-name="layout-footer-logo"><i></i></a> </div> <h4>Copyright 2015 | All Rights Reserved. Power by Webduino.io</h4> <h4>80661 高雄市前鎮區復興四路 20 號 1 樓 / 886-7-3388511</h4> </footer> <script>
   (function(i,s,o,g,r,a,m){i['GoogleAnalyticsObject']=r;i[r]=i[r]||function(){
   (i[r].q=i[r].q||[]).push(arguments)},i[r].l=1*new Date();a=s.createElement(o),
   m=s.getElementsByTagName(o)[0];a.async=1;a.src=g;m.parentNode.insertBefore(a,m)
